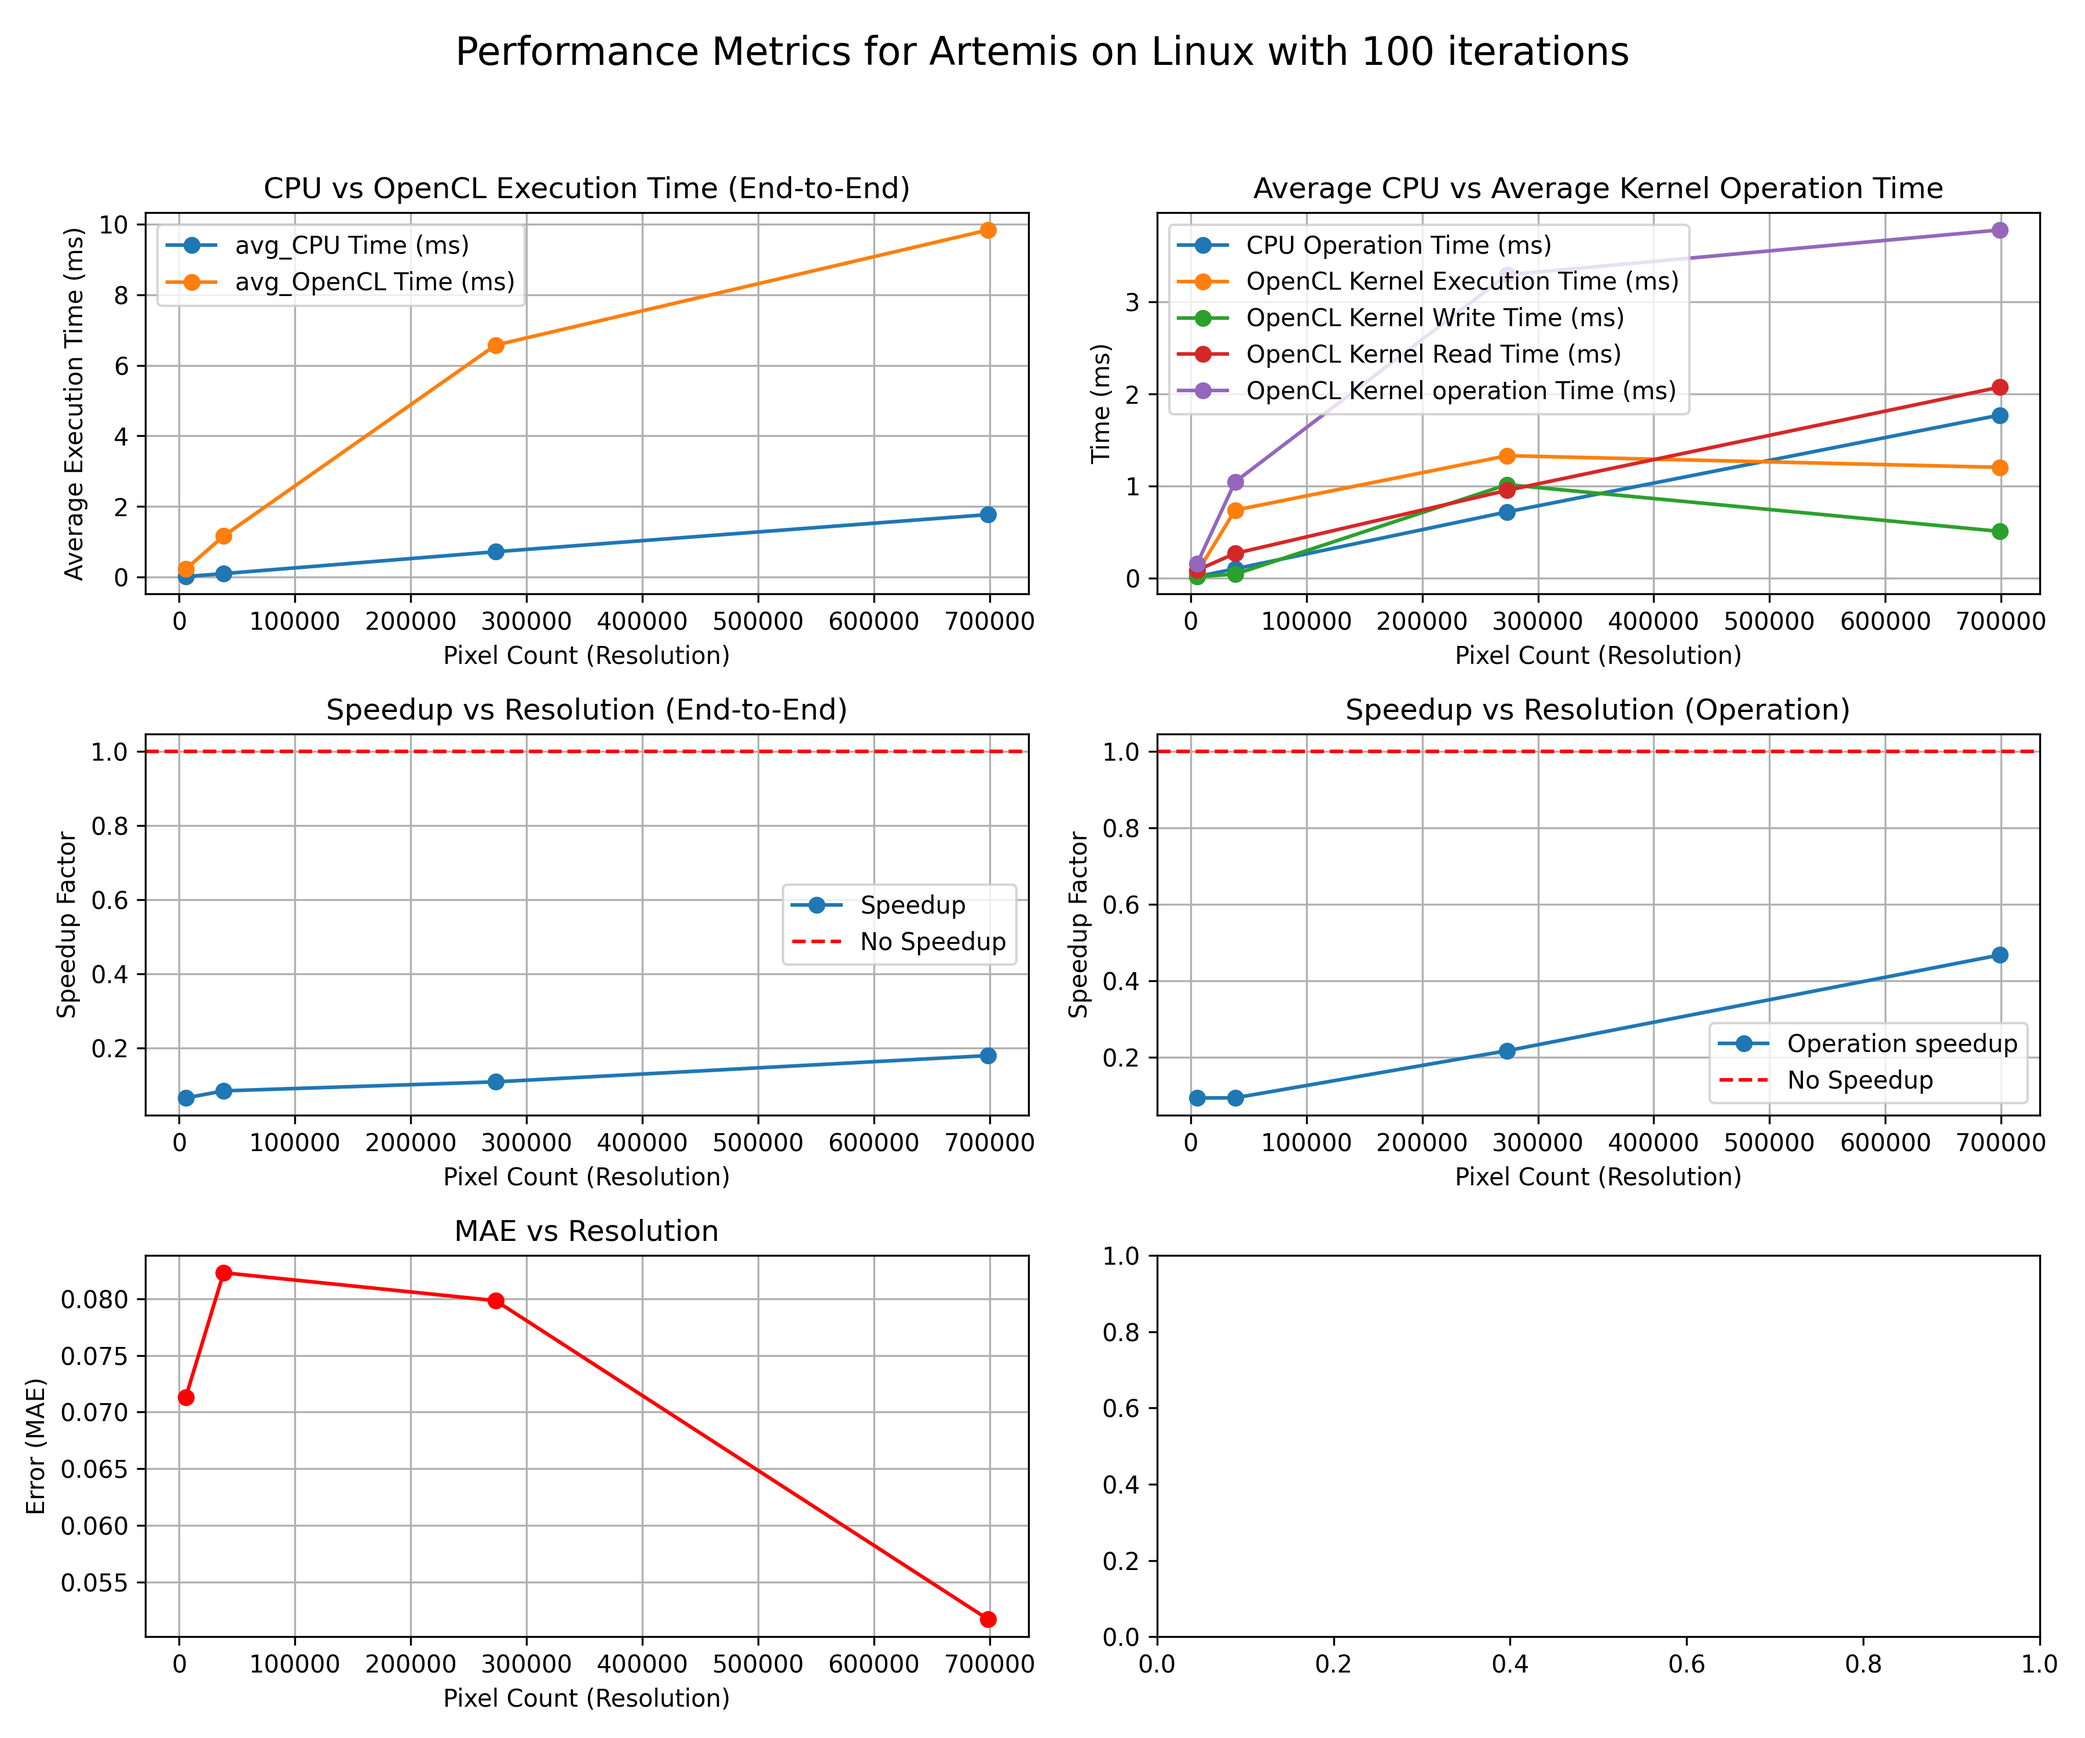
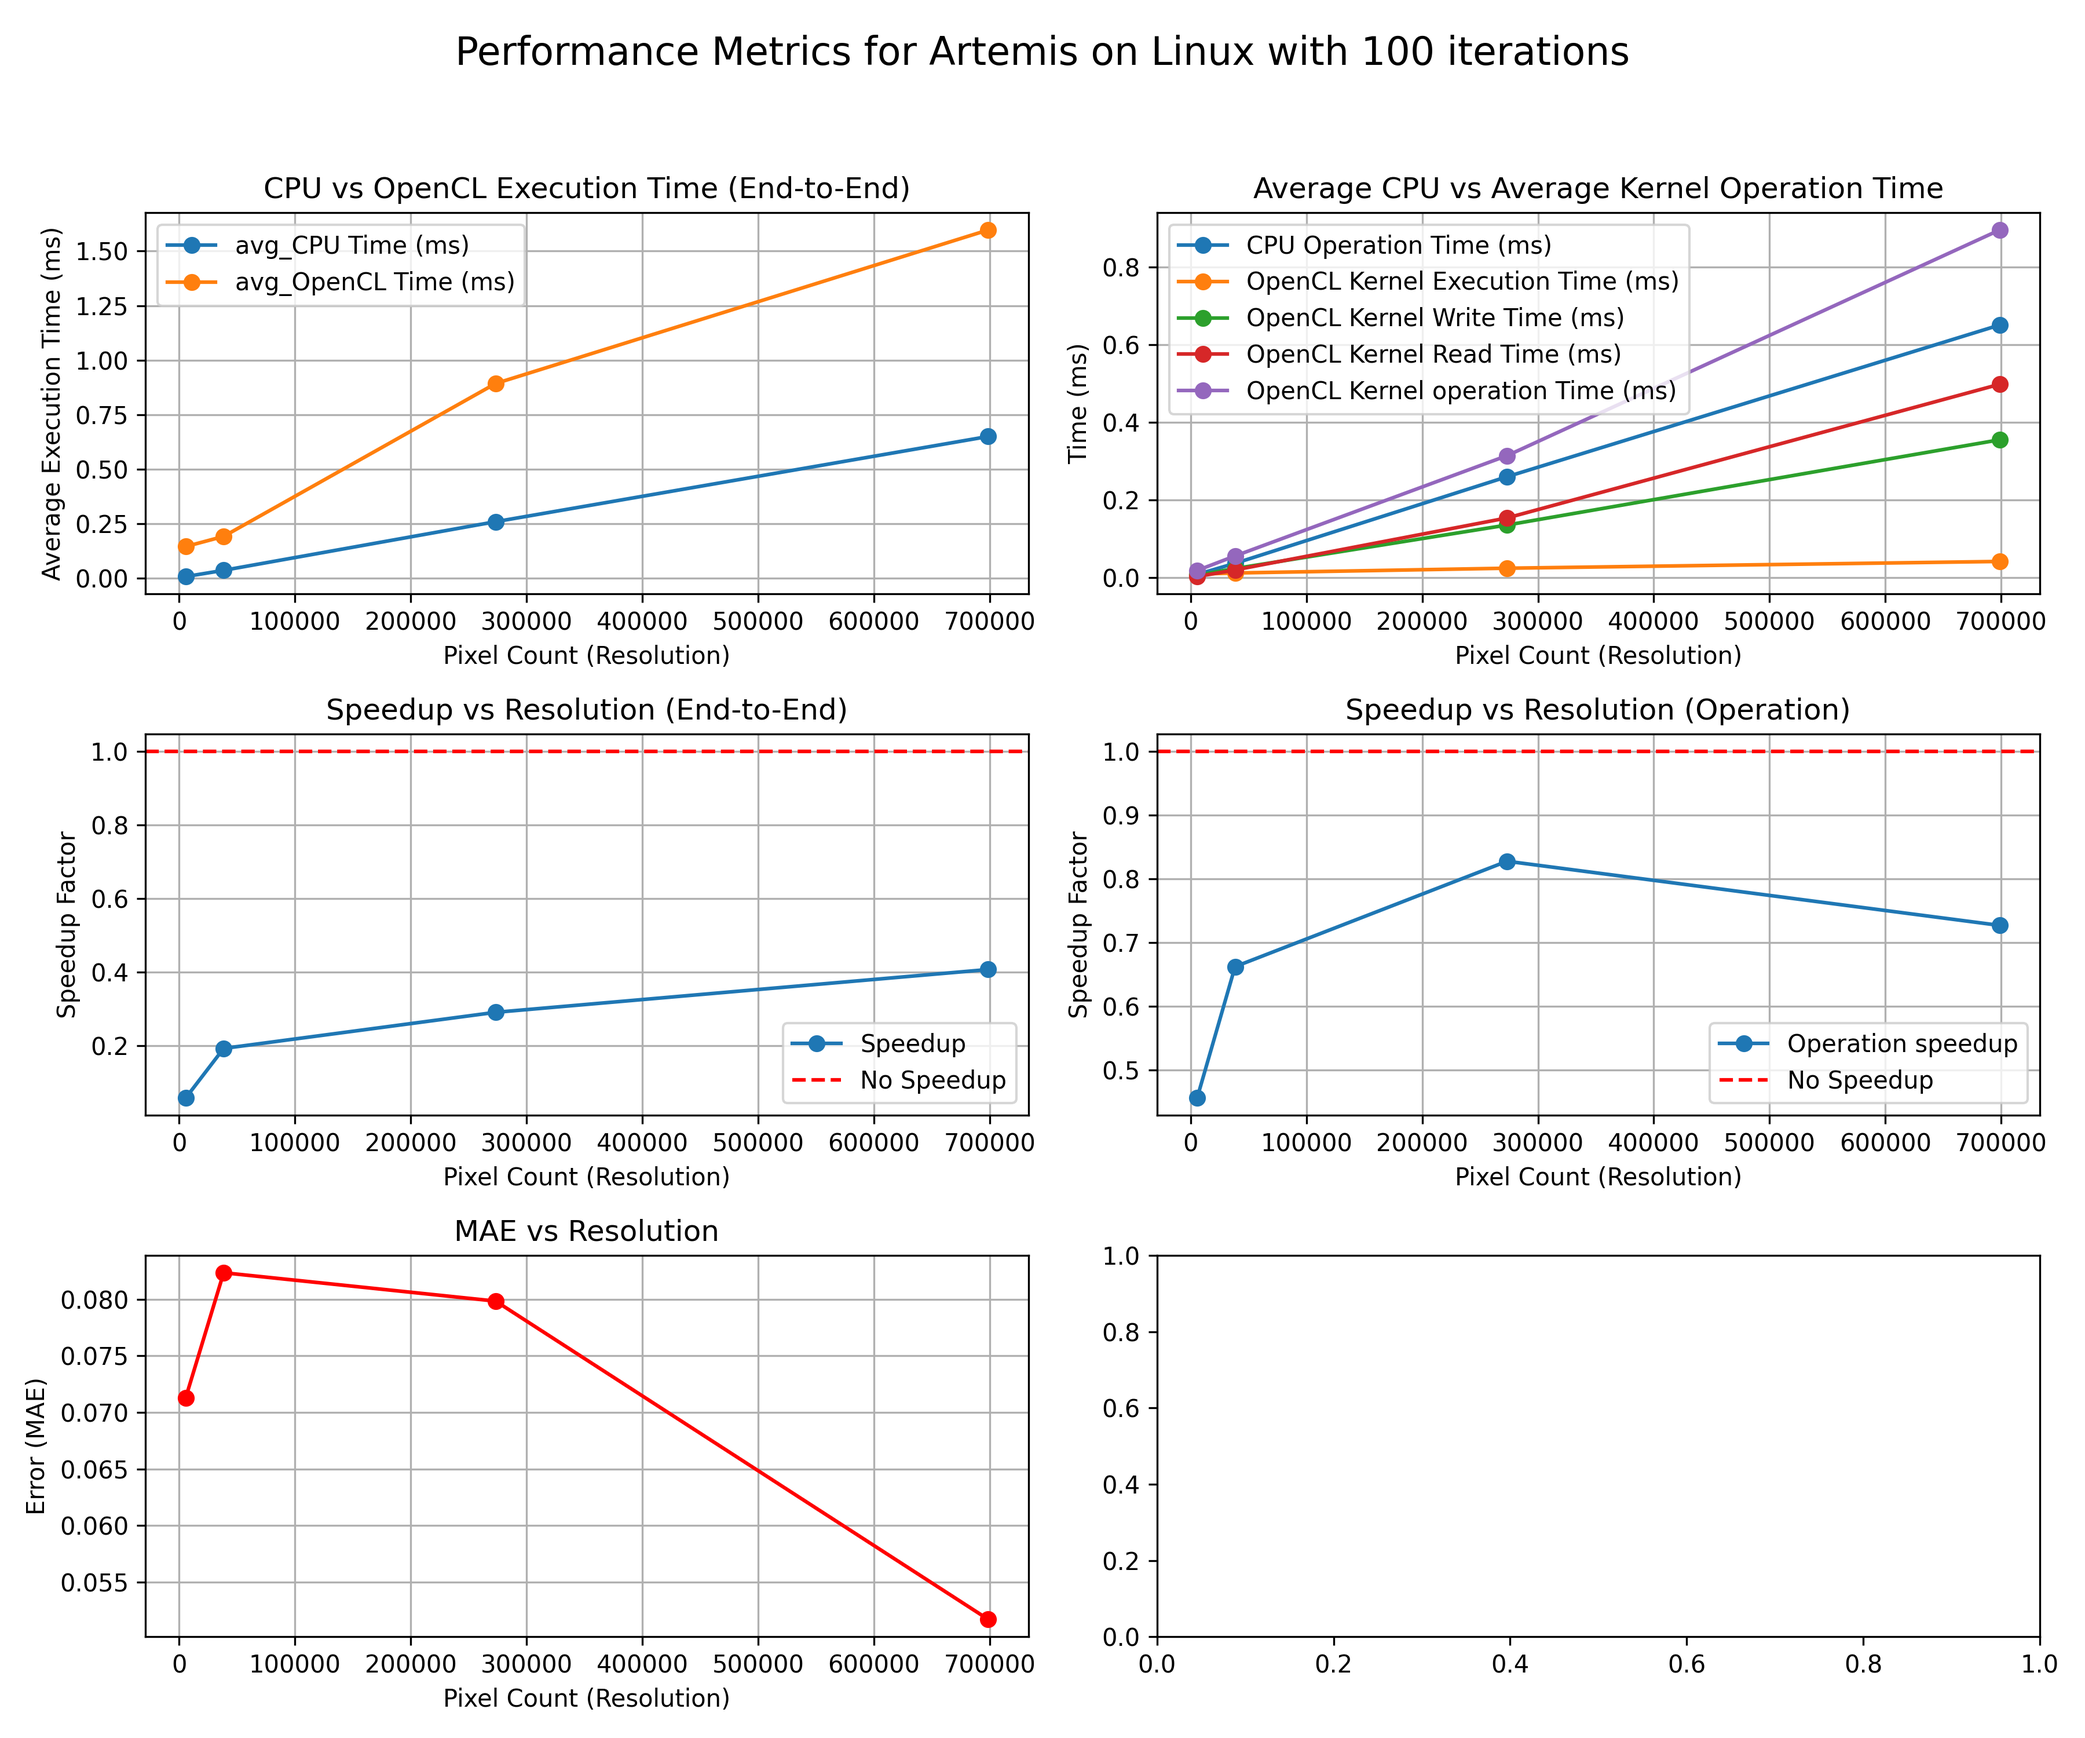
performed grayscale on linux

diff --git a/src/Grayscale/results/visualisation.py b/src/Grayscale/results/visualisation.py
@@ -4,7 +4,7 @@ import matplotlib.pyplot as plt
 
 # 0 - Linux
 # 1 - Windows
-USING_OS = 1
+USING_OS = 0
 
 # 0 - Debug
 # 1- Release
